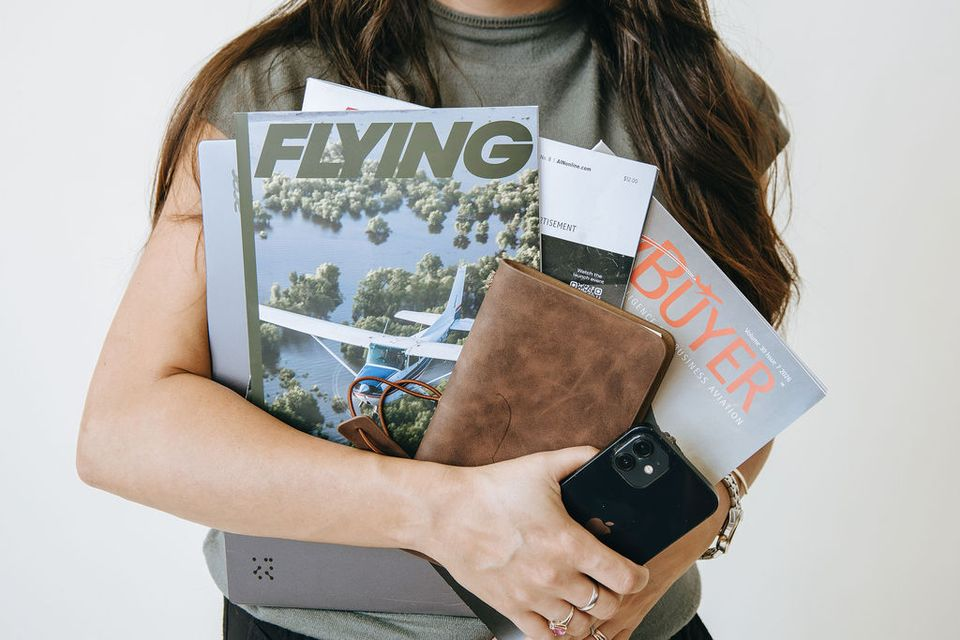
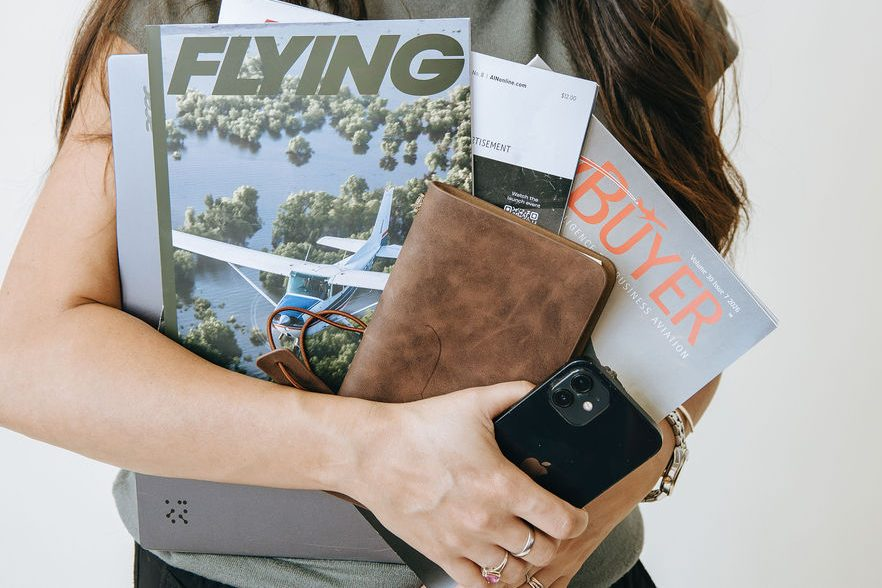
Fix the Audit card: point it at the renamed file and use the no-face crop
The previous rename staged the old image under the new name and left
resources.html pointing at the deleted file.

Claude-Session: https://claude.ai/code/session_01HNQsGQurfHmio8ny6io8RU

diff --git a/site/resources.html b/site/resources.html
@@ -103,7 +103,7 @@
         </article>
         <article data-reveal="" style="display:flex;flex-direction:column;background:#FFFFFF;border:1px solid rgba(201,192,178,0.55);border-top:3px solid #6B2F2B;border-radius:2px;overflow:hidden;box-shadow:0 1px 2px rgba(33,34,31,0.04),0 8px 24px -12px rgba(33,34,31,0.16);transition:box-shadow 260ms cubic-bezier(0.16,1,0.3,1),transform 260ms cubic-bezier(0.16,1,0.3,1)" style-hover="box-shadow:0 2px 4px rgba(33,34,31,0.05),0 18px 40px -14px rgba(33,34,31,0.26);transform:translateY(-4px)">
           <div style="aspect-ratio:3/2;background:#EDE7DA">
-            <img src="assets/audit-card-web.jpg" alt="Arms full of aviation magazines, a planner, and a phone" loading="lazy" decoding="async" style="display:block;width:100%;height:100%;object-fit:cover">
+            <img src="assets/audit-card-v2-web.jpg" alt="Arms full of aviation magazines, a planner, and a phone" loading="lazy" decoding="async" style="display:block;width:100%;height:100%;object-fit:cover">
           </div>
           <div style="flex:1;display:flex;flex-direction:column;gap:14px;padding:clamp(24px,2.6vw,32px)">
             <p style="margin:0;font:600 0.6875rem/1.5 'Montserrat',sans-serif;letter-spacing:0.18em;text-transform:uppercase;color:#6B2F2B">Self-Audit</p>
